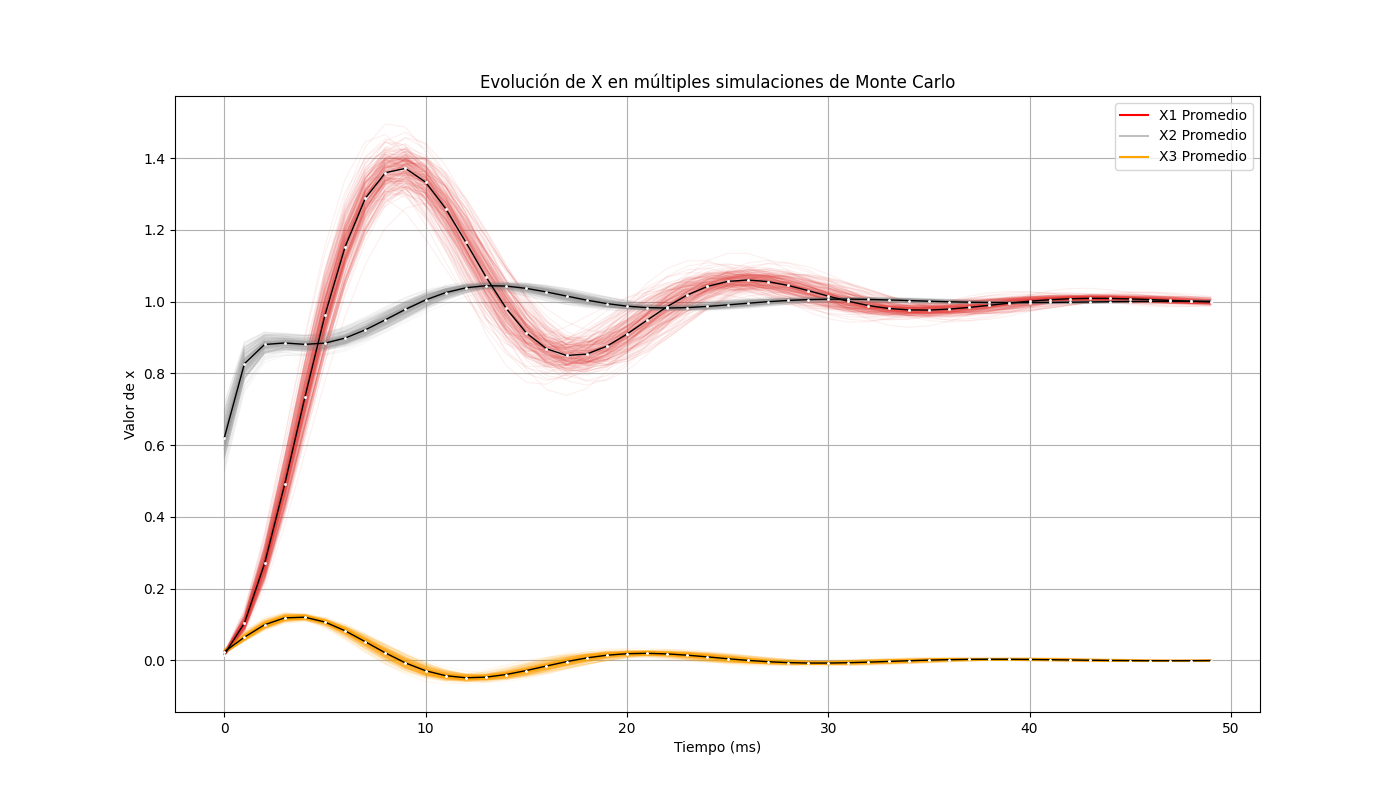
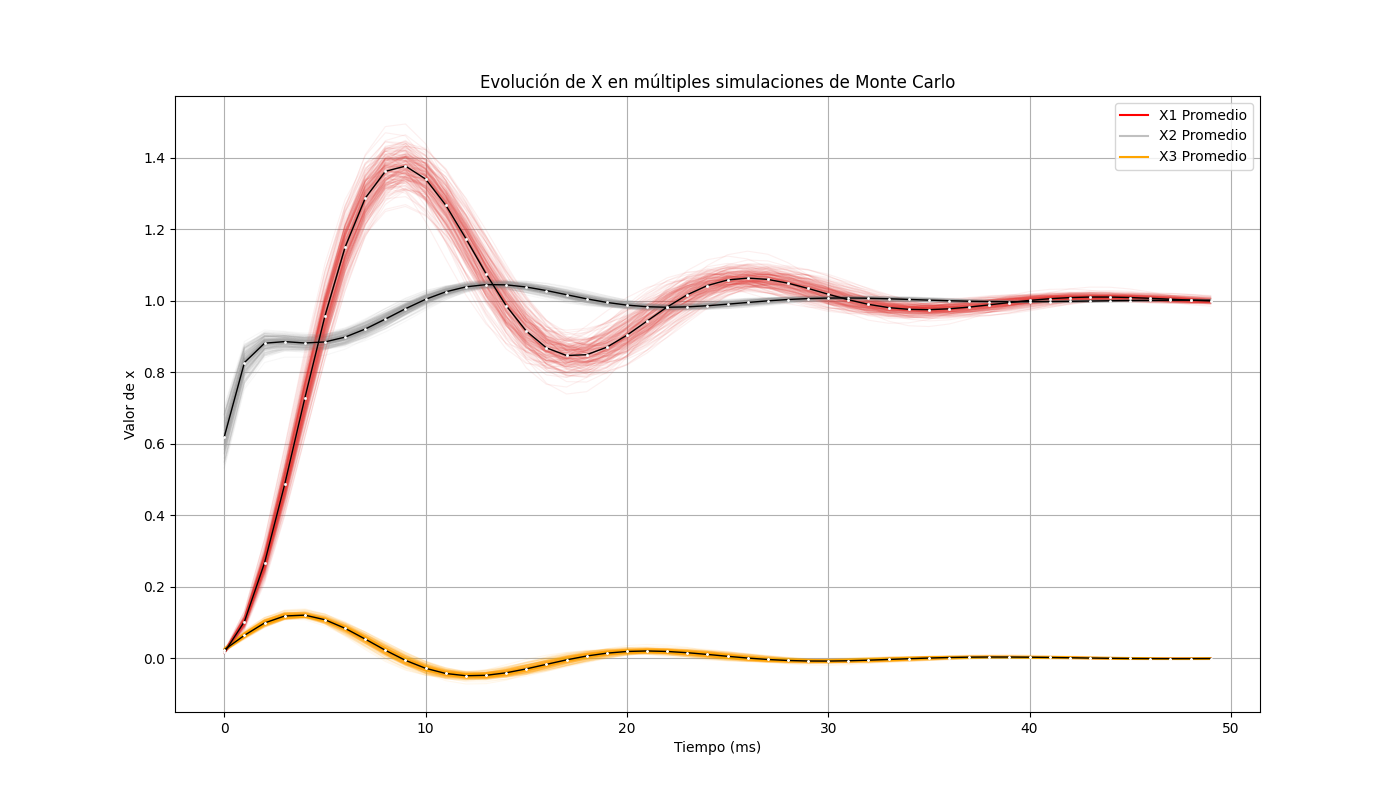
Se agrego el calculo de y con su respectiva grafica

diff --git a/Actividad 3/Codigo python/metodos.py b/Actividad 3/Codigo python/metodos.py
@@ -1,6 +1,7 @@
 import math
 import random
 import matplotlib.pyplot as plt
+import matplotlib.lines as mlines
 
 def boxMuller(mu= 0, sigma=1):
     u1 = random.random()
@@ -12,6 +13,16 @@ def boxMuller(mu= 0, sigma=1):
     z1 = sigma * z1 + mu
 
     return z0, z1
+
+# Esta funcion genera diferentes valores para los elementos. Siguiendo una distribucion normal dados el promeido y
+# Desviacion estandar
+def generar_elementos(R_1, R_2, C_1, C_2, L):
+    r_1, _ = boxMuller(R_1[0], R_1[1])
+    r_2, _ = boxMuller(R_2[0], R_2[1])
+    c_1, _ = boxMuller(C_1[0], C_1[1])
+    c_2, _ = boxMuller(C_2[0], C_2[1])
+    L, _ = boxMuller(L[0], L[1])
+    return r_1, r_2, c_1, c_2, L
 
 # Metodo de Runge-Kutta de cuarto orden (RK4)
 def rk4_step(f, t, x, h, u, A, B):
@@ -26,29 +37,17 @@ def rk4_step(f, t, x, h, u, A, B):
     x_new = [x[i] + (h / 6) * (k1[i] + 2 * k2[i] + 2 * k3[i] + k4[i]) for i in range(3)]
     return x_new
 
-
-def generar_elementos(R_1, R_2, C_1, C_2, L):
-    r_1, _ = boxMuller(R_1[0], R_1[1])
-    r_2, _ = boxMuller(R_2[0], R_2[1])
-    c_1, _ = boxMuller(C_1[0], C_1[1])
-    c_2, _ = boxMuller(C_2[0], C_2[1])
-    L, _ = boxMuller(L[0], L[1])
-    return r_1, r_2, c_1, c_2, L
-
-
-def simulacion_rk4(f, t, x, h, u, A, B, tiempo_total, tolerancia=1e-3):
+# Repite el metodo rk4 hasta llegar a un tiempo dado
+def simulacion_rk4(f, t, x, h, u, A, B, tiempo_total):
     """ Ejecuta una simulación con Runge-Kutta 4 y criterio de parada. """
-
     x_sim = x
     t_sim = t
     x_vals = []
-
     for i in range(tiempo_total):
         x_nuevo = rk4_step(f, t_sim, x_sim, h, u, A, B)
         x_vals.append(x_nuevo)
         x_sim = x_nuevo
         t_sim += h
-
     return x_vals
 
 # Funcion para multiplicar dos matrices
@@ -74,7 +73,7 @@ def mult(A, B):
 
     return resultado
 
-
+# Funcion para sumar dos matrices
 def sumM(A, B):
     # Obtener las dimensiones de las matrices
     filas_A = len(A)
@@ -96,6 +95,7 @@ def sumM(A, B):
     return resultado
 
 
+# Funcion para graficar cada componente de X
 def graficar_x(resultados):
     # Colores personalizados
     colores = ["#A0A0A0", "#E53935", "orange"]  # Negro, Rojo, Naranja
@@ -132,20 +132,61 @@ def graficar_x(resultados):
     promedio_x3 = [v / num_simulaciones for v in promedio_x3]
 
     # Graficar los promedios con líneas más gruesas, punteadas y con marcadores
-    plt.plot(range(num_iteraciones), promedio_x1, color="k", linewidth=1, alpha=1, marker="o", markersize=1, markeredgewidth=1, markeredgecolor="white", label="Promedio X1")
-    plt.plot(range(num_iteraciones), promedio_x2, color="k", linewidth=1, alpha=1, marker="s", markersize=1, markeredgewidth=1, markeredgecolor="white", label="Promedio X2")
-    plt.plot(range(num_iteraciones), promedio_x3, color="k", linewidth=1, alpha=1, marker="D", markersize=1, markeredgewidth=1, markeredgecolor="white", label="Promedio X3")
+    plt.plot(range(num_iteraciones), promedio_x1, color="k", linewidth=1.3, alpha=1, marker="o", markersize=1, markeredgewidth=1, markeredgecolor="white", label="X1")
+    plt.plot(range(num_iteraciones), promedio_x2, color="k", linewidth=1.3, alpha=1, marker="o", markersize=1, markeredgewidth=1, markeredgecolor="white", label="X2")
+    plt.plot(range(num_iteraciones), promedio_x3, color="k", linewidth=1.3, alpha=1, marker="o", markersize=1, markeredgewidth=1, markeredgecolor="white", label="X3")
 
     plt.title("Evolución de X en múltiples simulaciones de Monte Carlo")
     plt.xlabel("Tiempo (ms)")
     plt.ylabel("Valor de x")
-    import matplotlib.lines as mlines
     # Definir los elementos de la leyenda manualmente
-    legend_x1 = mlines.Line2D([], [], color="r", label="X1 Promedio")
-    legend_x2 = mlines.Line2D([], [], color="silver", label="X2 Promedio")
-    legend_x3 = mlines.Line2D([], [], color="orange", label="X3 Promedio")
+    legend_x1 = mlines.Line2D([], [], color="r", label="X1")
+    legend_x2 = mlines.Line2D([], [], color="silver", label="X2")
+    legend_x3 = mlines.Line2D([], [], color="orange", label="X3")
 
     # Agregar la leyenda sin depender de los datos
     plt.legend(handles=[legend_x1, legend_x2, legend_x3], loc="best")  # Agregar leyenda para los promedios
     plt.grid()
-    plt.savefig("grafica.png")
+    plt.savefig("x.png")
+
+# Funcio para graficar los valores de Y
+def graficar_y(result_Y):
+    num_simulaciones = len(result_Y)
+    num_pasos = len(result_Y[0])
+
+    plt.figure(figsize=(14, 8))
+    for i in range(num_simulaciones):
+        plt.plot(result_Y[i], alpha=0.08, linewidth=0.8, color="#A0A0A0")
+
+
+    # Calcular el promedio manualmente usando un bucle for
+    promedio_Y = []
+    for paso in range(num_pasos):
+        suma_paso = 0
+        for i in range(num_simulaciones):
+            suma_paso += result_Y[i][paso]
+        promedio_paso = suma_paso / num_simulaciones
+        promedio_Y.append(promedio_paso)
+
+    # Graficar el promedio
+    plt.plot(
+        promedio_Y,
+        color='k',
+        linewidth=1.5,
+        marker='o',  # Usar un marcador (círculos)
+        markersize=4,  # Tamaño del marcador
+        markeredgewidth=1,  # Grosor del borde del marcador
+        markeredgecolor="white",  # Color del borde del marcador
+        label='Promedio'
+    )
+    legend_y = mlines.Line2D([], [], color="k", label="Y Promedio")
+    plt.legend(handles=[legend_y], loc="best")  # Agregar leyenda para los promedios
+
+
+    plt.xlabel("Tiempo (ms)")
+    plt.ylabel("y(t)")
+    plt.title("Evolución de y(t) en diferentes simulaciones")
+
+    if num_simulaciones <= 5:  # Si hay pocas simulaciones, mostramos la leyenda
+        plt.legend()
+    plt.savefig("y.png")

diff --git a/Actividad 3/Codigo python/index.py b/Actividad 3/Codigo python/index.py
@@ -1,8 +1,9 @@
 from metodos import *
-import numpy as np
-
 # Tiempo de simulacion en segundos
-tiempo_simulacion = 0.05
+tiempo_simulacion = 0.07
+
+# Metodo de Monte Carlo
+num_simulaciones = 200  # Número de simulaciones Monte Carlo
 
 # Condiciones iniciales
 x = [0.0, 0.0, 0.0]  # Vector de estado inicial
@@ -34,14 +35,12 @@ def f(t, x, u, A, B):
     # Convertir el resultado de nuevo a una lista simple
     return [resultado[i][0] for i in range(3)]
 
-# Metodo de Monte Carlo
-num_simulaciones = 100  # Número de simulaciones Monte Carlo
-
 def monte_carlo(f, num_simulaciones, t, x, h, u, iteraciones, elementos):
     """ Ejecuta múltiples simulaciones de Monte Carlo y grafica los resultados. """
 
     R_1, R_2, C_1, C_2, L = elementos
-    resultados = []
+    result_X = []
+    result_Y =[]
 
     for i in range(num_simulaciones):
         # Generar valores de tal manera que sigan una distribucion normal
@@ -57,20 +56,21 @@ def monte_carlo(f, num_simulaciones, t, x, h, u, iteraciones, elementos):
 
         # Ejecutar simulación con RK4
         x_vals = simulacion_rk4(f, t, x, h, u, A, B, iteraciones)
+        # Calcular y
+        y_vals = [x1 - x2 - r_2 * x3 for x1, x2, x3 in x_vals]
         # Guardar resultados de esta simulación
-        resultados.append(x_vals)
-    return resultados
+        result_X.append(x_vals)
+        result_Y.append(y_vals)
+    return result_X, result_Y
 
-result = monte_carlo(f,
-                     num_simulaciones=200,
+result_X, result_Y = monte_carlo(f,
+                     num_simulaciones=num_simulaciones,
                      elementos=elementos,
                      t=t,
                      x=x,
                      h=h,
                      u=u,
-                     iteraciones=int(tiempo_simulacion/h)
-                     )
+                     iteraciones=int(tiempo_simulacion/h))
 
-graficar_x(result)
-matriz_np = np.array(result)
-print(matriz_np.shape)
+graficar_x(result_X)
+graficar_y(result_Y)
